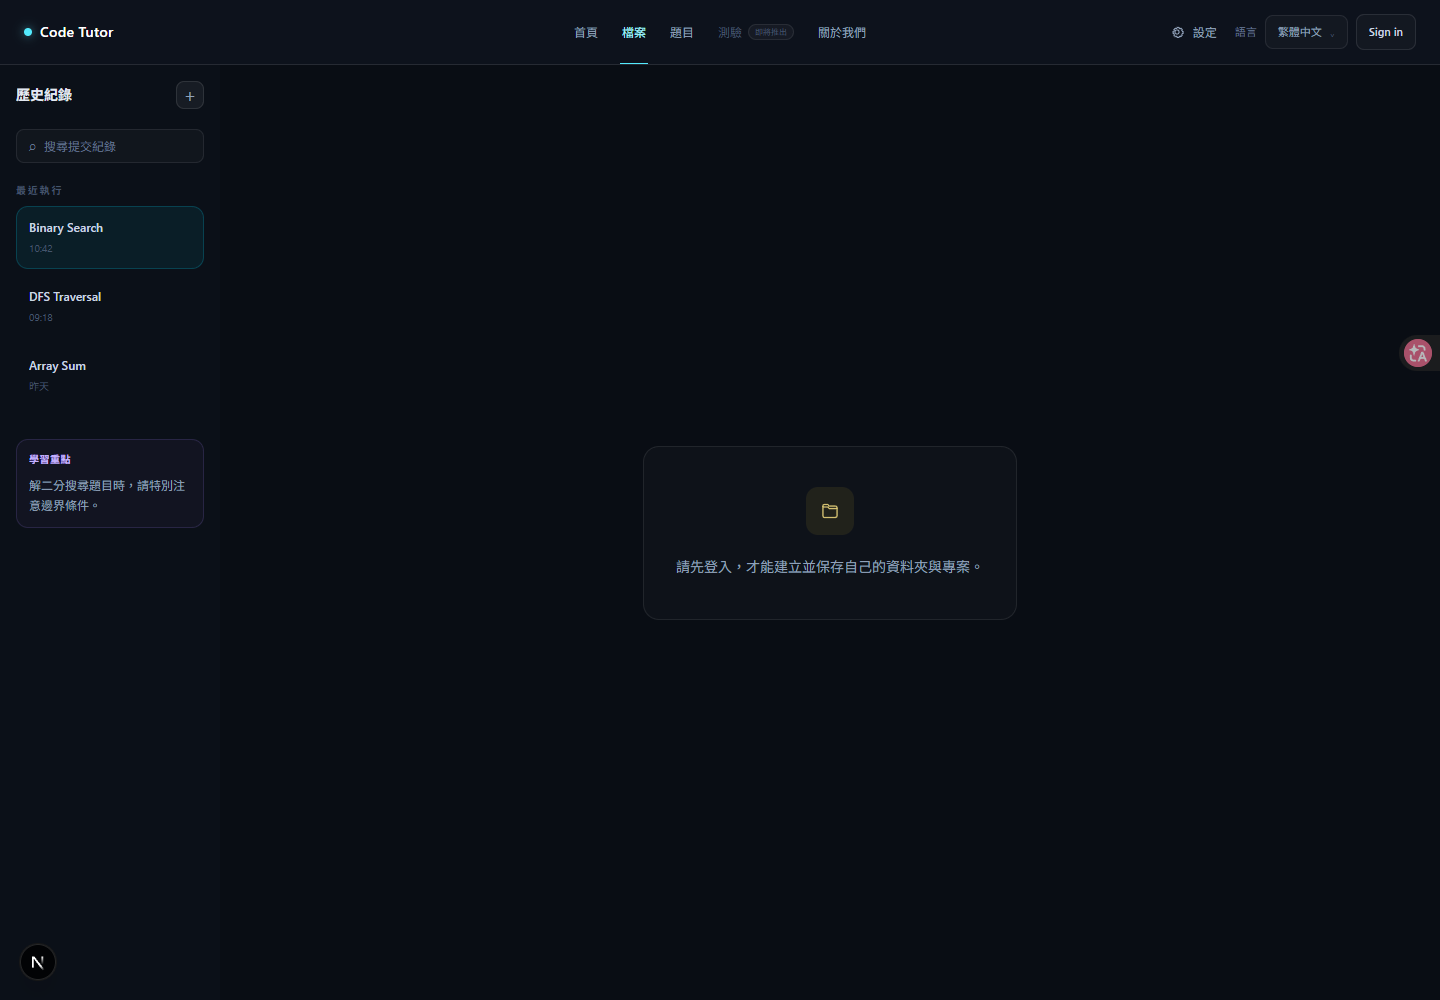
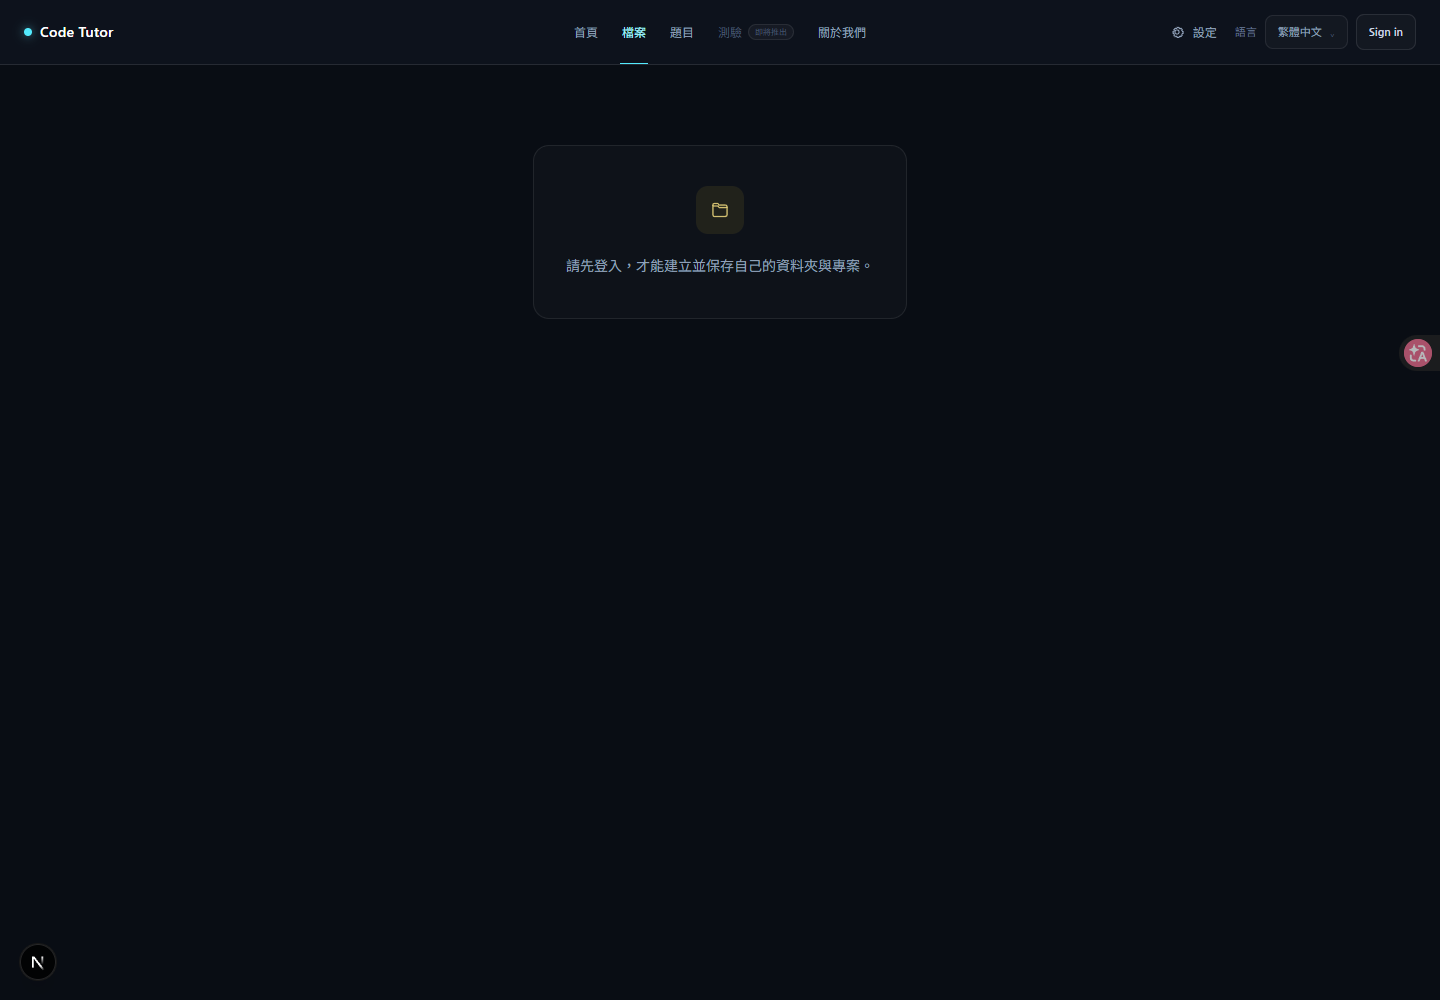
Replace mock file sidebar and clarify setup errors

diff --git a/frontend/src/components/files/file-home.tsx b/frontend/src/components/files/file-home.tsx
@@ -10,6 +10,7 @@ import {
   type FileItemKind,
   type FileProject,
   listFileItems,
+  listRecentProjects,
   parseHashtags,
   removeHashtags,
   updateFileItem,
@@ -137,6 +138,7 @@ export function FileHome({ onOpenProject }: FileHomeProps) {
   const { user } = useAuth();
   const { language, t } = useLanguage();
   const [items, setItems] = useState<FileItem[]>([]);
+  const [recentProjects, setRecentProjects] = useState<FileItem[]>([]);
   const [path, setPath] = useState<FolderCrumb[]>([]);
   const [query, setQuery] = useState("");
   const [selectedTags, setSelectedTags] = useState<string[]>([]);
@@ -148,7 +150,7 @@ export function FileHome({ onOpenProject }: FileHomeProps) {
   const currentFolderId = path.at(-1)?.id ?? null;
 
   const friendlyError = useCallback((error: unknown, fallback: "load" | "save" | "delete") => {
-    if (errorCode(error) === "42P01") return t("fileStorageNotReady");
+    if (["42P01", "PGRST205"].includes(errorCode(error) ?? "")) return t("fileStorageNotReady");
     if (fallback === "save") return t("fileSaveFailed");
     if (fallback === "delete") return t("fileDeleteFailed");
     return t("fileLoadFailed");
@@ -158,20 +160,27 @@ export function FileHome({ onOpenProject }: FileHomeProps) {
     if (!user) return;
     setLoading(true);
     setLoadError(null);
-    const { data, error } = await listFileItems(user.id, currentFolderId);
+    const [{ data, error }, recentResult] = await Promise.all([
+      listFileItems(user.id, currentFolderId),
+      listRecentProjects(user.id),
+    ]);
     if (error) {
       setItems([]);
       setLoadError(friendlyError(error, "load"));
     } else {
       setItems((data ?? []) as FileItem[]);
     }
+    if (!recentResult.error) setRecentProjects((recentResult.data ?? []) as FileItem[]);
     setLoading(false);
   }, [currentFolderId, friendlyError, user]);
 
   useEffect(() => {
     if (!user) return;
     let cancelled = false;
-    void listFileItems(user.id, currentFolderId).then(({ data, error }) => {
+    void Promise.all([
+      listFileItems(user.id, currentFolderId),
+      listRecentProjects(user.id),
+    ]).then(([{ data, error }, recentResult]) => {
       if (cancelled) return;
       if (error) {
         setItems([]);
@@ -180,6 +189,7 @@ export function FileHome({ onOpenProject }: FileHomeProps) {
         setItems((data ?? []) as FileItem[]);
         setLoadError(null);
       }
+      if (!recentResult.error) setRecentProjects((recentResult.data ?? []) as FileItem[]);
       setLoading(false);
     });
     return () => {
@@ -276,8 +286,18 @@ export function FileHome({ onOpenProject }: FileHomeProps) {
   }
 
   return (
-    <section className="min-w-0 bg-[#090d14] px-5 py-6 sm:px-8 lg:px-10">
-      <div className="mx-auto max-w-6xl">
+    <section className="grid min-h-0 flex-1 grid-cols-1 lg:grid-cols-[220px_minmax(0,1fr)]">
+      <FileNavigationSidebar
+        folders={items.filter((item) => item.kind === "folder")}
+        path={path}
+        recentProjects={recentProjects}
+        onFolder={enterFolder}
+        onOpenProject={onOpenProject}
+        onRoot={() => goToCrumb(-1)}
+        onCrumb={goToCrumb}
+      />
+      <div className="min-w-0 bg-[#090d14] px-5 py-6 sm:px-8 lg:px-10">
+        <div className="mx-auto max-w-6xl">
         <div className="flex flex-wrap items-center justify-between gap-4">
           <button type="button" onClick={() => { setDialogError(null); setDialog({ mode: "create", kind: "folder" }); }} className="flex h-9 items-center gap-2 rounded-lg border border-white/10 bg-white/[0.035] px-3 text-xs font-medium text-slate-300 transition-colors hover:border-cyan-300/25 hover:text-cyan-200">
             <span className="text-base leading-none" aria-hidden="true">+</span>{t("addFolder")}
@@ -363,10 +383,71 @@ export function FileHome({ onOpenProject }: FileHomeProps) {
             </div>
           </>
         )}
+        </div>
       </div>
 
       {dialog && <ItemDialog key={dialog.mode === "edit" ? dialog.item.id : dialog.kind} state={dialog} busy={saving} error={dialogError} onClose={() => setDialog(null)} onSubmit={submitDialog} />}
     </section>
+  );
+}
+
+function FileNavigationSidebar({
+  folders,
+  path,
+  recentProjects,
+  onFolder,
+  onOpenProject,
+  onRoot,
+  onCrumb,
+}: {
+  folders: FileItem[];
+  path: FolderCrumb[];
+  recentProjects: FileItem[];
+  onFolder: (folder: FileItem) => void;
+  onOpenProject: (project: FileProject) => void;
+  onRoot: () => void;
+  onCrumb: (index: number) => void;
+}) {
+  const { t } = useLanguage();
+
+  return (
+    <aside className="hidden border-r border-white/6 bg-[#0b1018] p-4 lg:block">
+      <h2 className="text-sm font-semibold text-slate-200">{t("fileNavigation")}</h2>
+
+      <div className="mt-5">
+        <button type="button" onClick={onRoot} className="flex w-full items-center gap-2 rounded-lg px-2 py-2 text-left text-xs text-slate-400 hover:bg-white/[0.035] hover:text-cyan-200">
+          <span className="text-amber-200/65"><FolderIcon /></span>
+          <span className="truncate">{t("fileRoot")}</span>
+        </button>
+        {path.map((crumb, index) => (
+          <button key={crumb.id} type="button" onClick={() => onCrumb(index)} className="flex w-full items-center gap-2 rounded-lg py-2 pl-6 pr-2 text-left text-[11px] text-slate-500 hover:bg-white/[0.035] hover:text-cyan-200">
+            <span className="text-slate-700">└</span><span className="truncate">{crumb.name}</span>
+          </button>
+        ))}
+      </div>
+
+      <div className="mt-7 border-t border-white/6 pt-5">
+        <p className="text-[9px] font-semibold uppercase tracking-[0.18em] text-slate-600">{t("currentFolders")}</p>
+        <div className="mt-2 space-y-1">
+          {folders.length === 0 ? <p className="px-2 py-2 text-[10px] leading-4 text-slate-700">{t("emptyFolders")}</p> : folders.slice(0, 6).map((folder) => (
+            <button key={folder.id} type="button" onClick={() => onFolder(folder)} className="flex w-full items-center gap-2 rounded-lg px-2 py-2 text-left text-[11px] text-slate-500 hover:bg-white/[0.035] hover:text-cyan-200">
+              <span className="text-amber-200/50"><FolderIcon /></span><span className="truncate">{folder.name}</span>
+            </button>
+          ))}
+        </div>
+      </div>
+
+      <div className="mt-7 border-t border-white/6 pt-5">
+        <p className="text-[9px] font-semibold uppercase tracking-[0.18em] text-slate-600">{t("recentProjects")}</p>
+        <div className="mt-2 space-y-1">
+          {recentProjects.length === 0 ? <p className="px-2 py-2 text-[10px] leading-4 text-slate-700">{t("noRecentProjects")}</p> : recentProjects.map((project) => (
+            <button key={project.id} type="button" onClick={() => onOpenProject({ id: project.id, name: project.name })} className="flex w-full items-center gap-2 rounded-lg px-2 py-2 text-left text-[11px] text-slate-500 hover:bg-white/[0.035] hover:text-cyan-200">
+              <span className="grid size-6 shrink-0 place-items-center rounded-md bg-cyan-300/[0.055] font-mono text-[8px] text-cyan-200/70">C++</span><span className="truncate">{project.name}</span>
+            </button>
+          ))}
+        </div>
+      </div>
+    </aside>
   );
 }
 

diff --git a/frontend/src/components/workspace/history-panel.tsx b/frontend/src/components/workspace/history-panel.tsx
@@ -1,63 +1,34 @@
-import { type TranslationKey, useLanguage } from "@/lib/language-context";
+import type { FileProject } from "@/lib/file-items";
+import { useLanguage } from "@/lib/language-context";
 
-const historyItems = [
-  { title: "Binary Search", time: "10:42" },
-  { title: "DFS Traversal", time: "09:18" },
-  { title: "Array Sum", timeKey: "yesterday" as TranslationKey },
-];
-
-export function HistoryPanel() {
+export function HistoryPanel({ project, onBack }: { project: FileProject; onBack: () => void }) {
   const { t } = useLanguage();
 
   return (
-    <aside className="hidden bg-[#0b1018] p-4 lg:block">
-      <div className="mb-5 flex items-center justify-between">
-        <h2 className="text-sm font-semibold text-slate-200">{t("history")}</h2>
-        <button
-          type="button"
-          className="grid size-7 place-items-center rounded-lg border border-white/10 bg-white/5 text-lg leading-none text-slate-400"
-          aria-label={t("createNewFile")}
-        >
-          +
-        </button>
+    <aside className="hidden border-r border-white/6 bg-[#0b1018] p-4 lg:block">
+      <button type="button" onClick={onBack} className="flex items-center gap-2 text-[11px] text-slate-500 hover:text-cyan-200">
+        <span aria-hidden="true">←</span>{t("backToFiles")}
+      </button>
+
+      <div className="mt-6">
+        <p className="text-[9px] font-semibold uppercase tracking-[0.18em] text-slate-600">{t("currentProject")}</p>
+        <div className="mt-3 rounded-xl border border-cyan-300/10 bg-cyan-300/[0.035] p-3">
+          <span className="grid size-8 place-items-center rounded-lg bg-cyan-300/[0.07] font-mono text-[9px] font-bold text-cyan-200">C++</span>
+          <p className="mt-3 break-words text-xs font-medium leading-5 text-slate-300">{project.name}</p>
+        </div>
       </div>
 
-      <div className="mb-3 flex items-center gap-2 rounded-lg border border-white/8 bg-white/[0.025] px-3 py-2 text-xs text-slate-500">
-        <span aria-hidden="true">⌕</span>
-        {t("searchSubmissions")}
+      <div className="mt-7 border-t border-white/6 pt-5">
+        <p className="text-[9px] font-semibold uppercase tracking-[0.18em] text-slate-600">{t("projectFiles")}</p>
+        <div className="mt-3 flex items-center gap-2 rounded-lg bg-white/[0.025] px-3 py-2.5 font-mono text-[11px] text-slate-400">
+          <span className="text-cyan-300/60">C++</span>
+          <span>main.cpp</span>
+        </div>
       </div>
 
-      <p className="mb-2 mt-5 text-[10px] font-semibold uppercase tracking-[0.18em] text-slate-600">
-        {t("recentRuns")}
-      </p>
-      <div className="space-y-1.5">
-        {historyItems.map((item, index) => (
-          <button
-            key={item.title}
-            type="button"
-            className={`w-full rounded-xl border px-3 py-3 text-left transition-colors ${
-              index === 0
-                ? "border-cyan-400/20 bg-cyan-400/[0.07]"
-                : "border-transparent hover:bg-white/[0.035]"
-            }`}
-          >
-            <span className="block truncate text-xs font-medium text-slate-300">
-              {item.title}
-            </span>
-            <p className="mt-1.5 text-[10px] text-slate-600">
-              {item.timeKey ? t(item.timeKey) : item.time}
-            </p>
-          </button>
-        ))}
-      </div>
-
-      <div className="mt-8 rounded-xl border border-violet-400/15 bg-violet-400/[0.04] p-3">
-        <p className="text-[10px] font-semibold uppercase tracking-wider text-violet-300">
-          {t("learningFocus")}
-        </p>
-        <p className="mt-2 text-xs leading-5 text-slate-400">
-          {t("learningFocusDetail")}
-        </p>
+      <div className="mt-7 border-t border-white/6 pt-5">
+        <p className="text-[9px] font-semibold uppercase tracking-[0.18em] text-slate-600">{t("recentRuns")}</p>
+        <p className="mt-3 text-[10px] leading-5 text-slate-700">{t("noRecentRuns")}</p>
       </div>
     </aside>
   );

diff --git a/frontend/src/components/app-shell.tsx b/frontend/src/components/app-shell.tsx
@@ -12,11 +12,18 @@ import { AuthProvider, useAuth } from "@/lib/auth-context";
 import type { FileProject } from "@/lib/file-items";
 import { LanguageProvider, useLanguage } from "@/lib/language-context";
 
+type OpenedProject = FileProject & { ownerId: string };
+
 function AppContent() {
   const { t } = useLanguage();
   const { user } = useAuth();
   const [activeSection, setActiveSection] = useState<PrimarySection>("files");
-  const [openProject, setOpenProject] = useState<FileProject | null>(null);
+  const [openProject, setOpenProject] = useState<OpenedProject | null>(null);
+
+  const openUserProject = (project: FileProject) => {
+    if (!user) return;
+    setOpenProject({ ...project, ownerId: user.id });
+  };
 
   const selectSection = (section: PrimarySection) => {
     setActiveSection(section);
@@ -24,21 +31,16 @@ function AppContent() {
   };
 
   let content;
-  if (activeSection === "files" && openProject) {
+  if (activeSection === "files" && openProject && user && openProject.ownerId === user.id) {
     content = (
       <section className="grid min-h-0 flex-1 grid-cols-1 lg:grid-cols-[220px_minmax(420px,1fr)_320px]">
-        <HistoryPanel />
+        <HistoryPanel project={openProject} onBack={() => setOpenProject(null)} />
         <WorkspaceCenter key={openProject.id} project={openProject} />
         <AiTutorPanel />
       </section>
     );
   } else if (activeSection === "files") {
-    content = (
-      <section className="grid min-h-0 flex-1 grid-cols-1 lg:grid-cols-[220px_minmax(0,1fr)]">
-        <HistoryPanel />
-        <FileHome key={user?.id ?? "guest"} onOpenProject={setOpenProject} />
-      </section>
-    );
+    content = <FileHome key={user?.id ?? "guest"} onOpenProject={openUserProject} />;
   } else if (activeSection === "problems") {
     content = <ProblemsPage />;
   } else {

diff --git a/frontend/src/lib/language-context.tsx b/frontend/src/lib/language-context.tsx
@@ -96,6 +96,14 @@ const translations = {
     deleteProjectConfirm: "確定要刪除這個專案嗎？此操作無法復原。",
     deleteFolderConfirm: "確定要刪除這個資料夾及其中所有內容嗎？此操作無法復原。",
     tagCount: "{count} 個標籤",
+    fileNavigation: "檔案導覽",
+    currentFolders: "這一層的資料夾",
+    recentProjects: "最近更新的專案",
+    noRecentProjects: "還沒有最近專案",
+    currentProject: "目前專案",
+    projectFiles: "專案檔案",
+    backToFiles: "返回檔案",
+    noRecentRuns: "這個專案還沒有執行紀錄",
     problemLibrary: "題庫",
     problemHeroTitle: "尋找適合你的練習題",
     problemHeroDetail: "用程度與演算法標籤縮小範圍，快速找到下一題。",
@@ -260,6 +268,14 @@ const translations = {
     deleteProjectConfirm: "Delete this project? This action cannot be undone.",
     deleteFolderConfirm: "Delete this folder and everything inside it? This action cannot be undone.",
     tagCount: "{count} tags",
+    fileNavigation: "File navigation",
+    currentFolders: "Folders here",
+    recentProjects: "Recently updated projects",
+    noRecentProjects: "No recent projects yet",
+    currentProject: "Current project",
+    projectFiles: "Project files",
+    backToFiles: "Back to files",
+    noRecentRuns: "This project has no run history yet",
     problemLibrary: "Problem library",
     problemHeroTitle: "Find the right practice problem",
     problemHeroDetail: "Use level and algorithm tags to quickly narrow down your next challenge.",

diff --git a/frontend/src/lib/file-items.ts b/frontend/src/lib/file-items.ts
@@ -64,6 +64,16 @@ export async function listFileItems(userId: string, parentId: string | null) {
   return query.order("kind", { ascending: true }).order("name", { ascending: true });
 }
 
+export async function listRecentProjects(userId: string) {
+  return getSupabaseBrowserClient()
+    .from("file_items")
+    .select("id,user_id,parent_id,kind,name,tags,language,created_at,updated_at")
+    .eq("user_id", userId)
+    .eq("kind", "project")
+    .order("updated_at", { ascending: false })
+    .limit(5);
+}
+
 export async function createFileItem(input: {
   userId: string;
   parentId: string | null;

diff --git a/plan/file-management-and-tags.md b/plan/file-management-and-tags.md
@@ -68,6 +68,18 @@
 
 目前驗證結果：ESLint 與 Next.js production build 通過；未登入瀏覽器測試確認不再顯示固定假專案，並改為提示使用者先登入。畫面證據：`plan/evidence/file-management-guest.png`。建立、搜尋、標籤修改、程式碼保存與跨帳號 RLS 測試，要在 migration 套用後執行。
 
+### 6. 左側內容與錯誤提示調整
+
+- [x] 移除 Binary Search、DFS Traversal、Array Sum 等固定假歷史紀錄。
+- [x] 檔案首頁左側改為目前資料夾的導覽與最近更新的真實專案。
+- [x] 未登入、資料為空及 migration 未套用時提供對應空狀態。
+- [x] Supabase `404`／`PGRST205` 顯示「檔案資料表尚未建立」，不再顯示籠統的稍後再試。
+- [x] 保持現有左欄寬度、深色配色與細框線。
+
+簡易說明：左側不應顯示不屬於使用者的示範紀錄。第一版會改成真正來自使用者檔案資料的快速入口，等提交紀錄資料表完成後，再把「最近執行」接回真實資料。
+
+診斷結果：Supabase REST endpoint 回傳 HTTP 404 與 `PGRST205`，訊息為找不到 `public.file_items`，確認 migration 尚未套用。介面已針對此錯誤提供正確說明。調整後 ESLint 與 production build 均通過。
+
 ## 四、驗收方式
 
 1. 登入後能建立資料夾，重新整理後仍存在。
